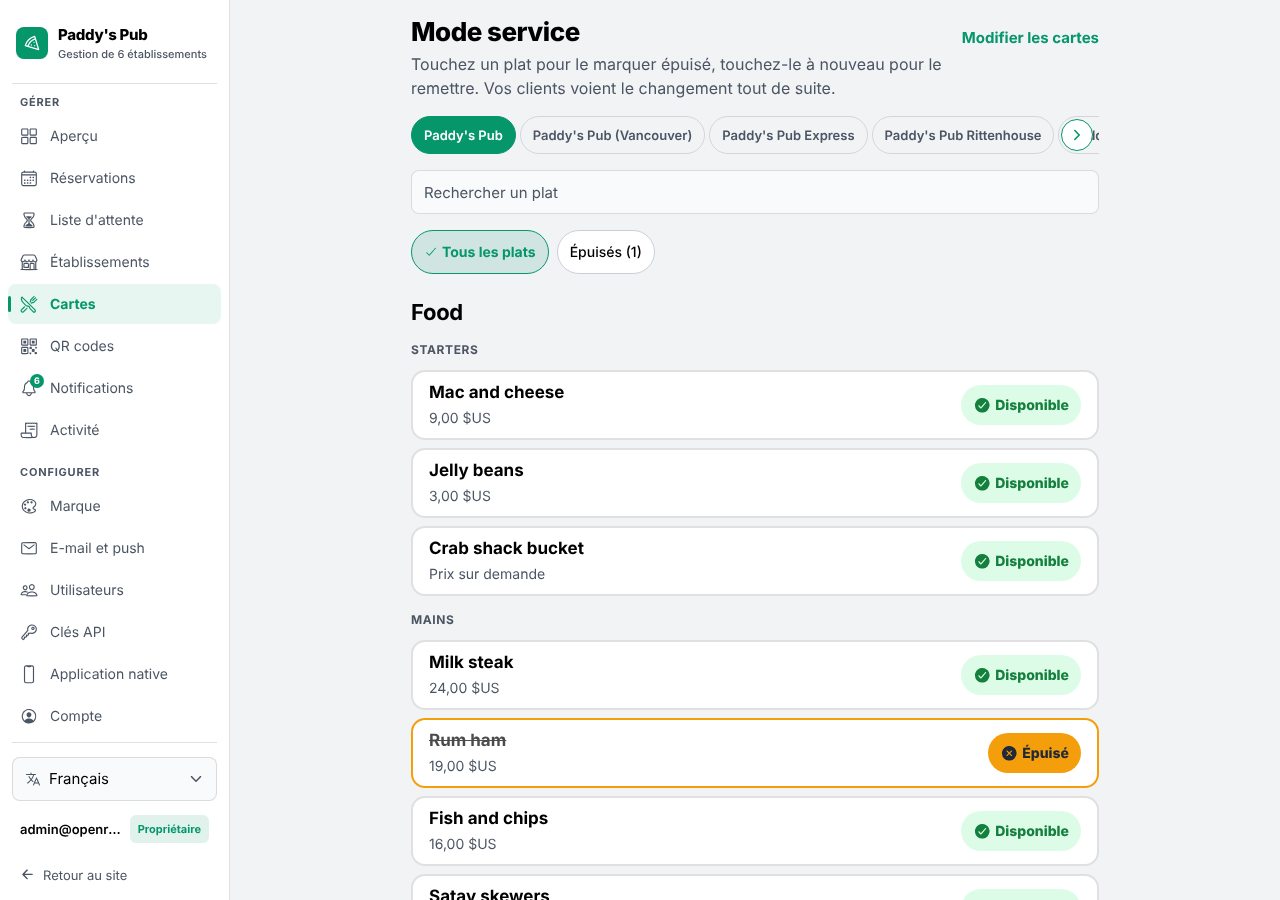
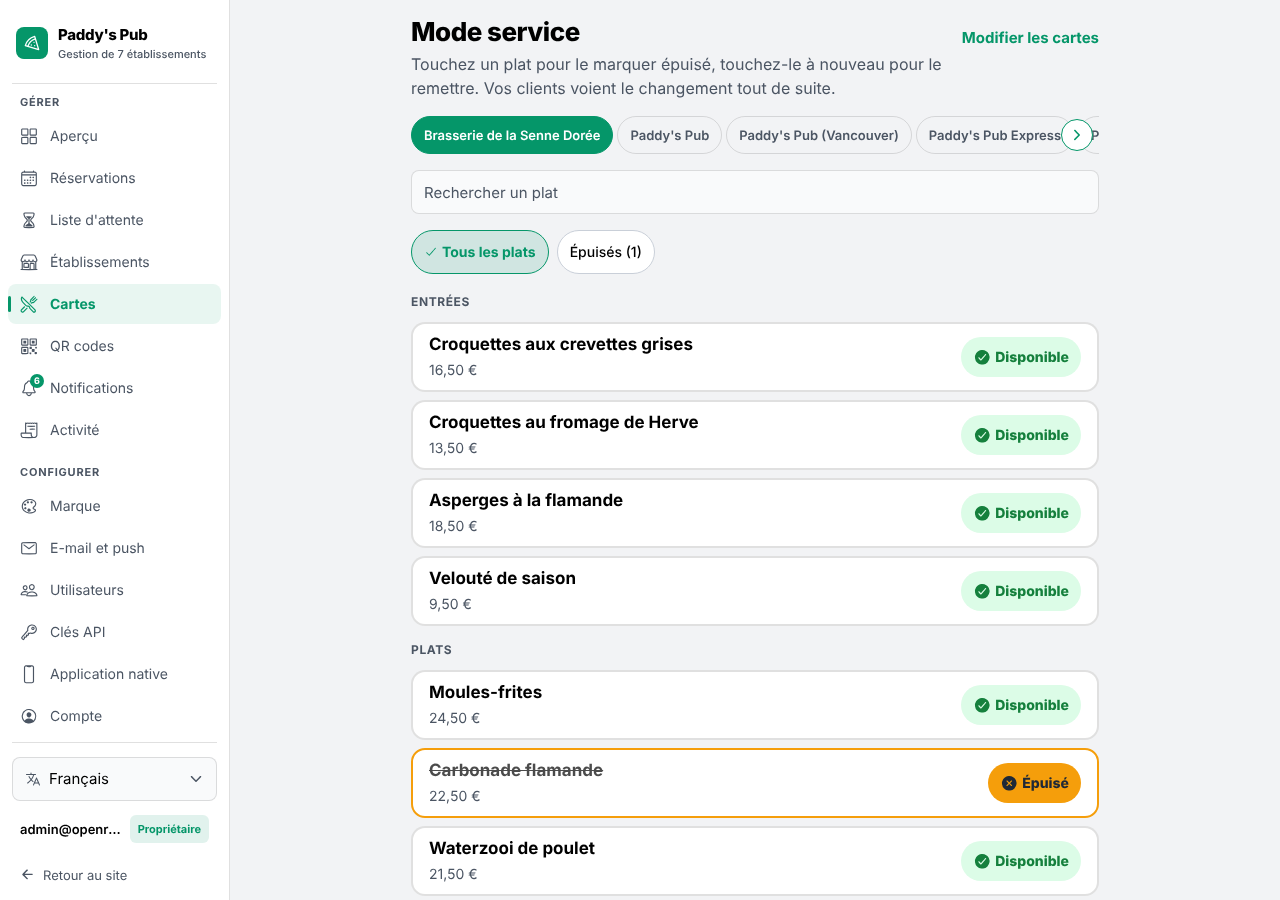
feat(menu): Belgian French demo, euro default per location, new captures
- A new menu starts in the currency of the location's first menu, and in euros
  when it has none (newMenuCurrency); the currency stays a per-menu field. A
  test pins that French euros read like Belgian ones (9,00 €).
- demo_data.py: a fictional Belgian brasserie ("Brasserie de la Senne Dorée"),
  in French and euros, with a carte (Entrées, Plats, Desserts, Boissons), a
  sold-out dish, a "price on request" dish, an unpublished draft and Belgian
  guests for its bookings. Appended last, so no existing location id moves; the
  Paddy's Pub dataset is unchanged.
- Captures regenerated on that dataset; the capture script targets the
  brasserie by name.

Claude-Session: https://claude.ai/code/session_01JWfiUJzcGTb5ZXsWKKtohj

Changed region(s): [[0.3125, 0.3111, 0.875, 1.0], [0.3438, 0.1244, 0.8438, 0.1867], [0.0938, 0.0311, 0.1562, 0.0622]]

diff --git a/openresto-frontend/components/admin/menus/MenusScreen.tsx b/openresto-frontend/components/admin/menus/MenusScreen.tsx
@@ -18,11 +18,10 @@ import {
 } from "@/api/menus";
 import { useAdminLocation } from "@/hooks/use-admin-location";
 import { useAppTheme } from "@/hooks/use-app-theme";
-import { DEFAULT_CURRENCY } from "@/constants/menu";
 import { openExternal } from "@/utils/openExternal";
 import { menuUrl } from "@/utils/qrCode";
 import { moveId } from "@/utils/reorder";
-import { reorderMenus } from "@/utils/menuState";
+import { newMenuCurrency, reorderMenus } from "@/utils/menuState";
 import { styles } from "./MenusScreen.styles";
 
 const SERVICE_PATH = "/admin/menus/service" as Href;
@@ -75,11 +74,11 @@ export function MenusScreen() {
     openExternal(menuUrl(window.location.origin, "r", result.value.restaurantToken));
   };
 
-  const addMenu = async (id: number, name: string): Promise<string | null> => {
+  const addMenu = async (id: number, menus: MenuDto[], name: string): Promise<string | null> => {
     const result = await adminCreateMenu(id, {
       name,
       description: null,
-      currency: DEFAULT_CURRENCY,
+      currency: newMenuCurrency(menus),
     });
     if (!result.ok) return result.message;
     setJustAdded(result.value.id);
@@ -179,7 +178,7 @@ export function MenusScreen() {
               <AddEntryForm
                 label={t("admin.menus.addMenu")}
                 placeholder={t("admin.menus.addMenuPlaceholder")}
-                onAdd={(name) => addMenu(selected.id, name)}
+                onAdd={(name) => addMenu(selected.id, load.menus, name)}
                 testID="add-menu"
               />
             </View>

diff --git a/openresto-frontend/tests/components/admin/menus/MenusScreen.test.tsx b/openresto-frontend/tests/components/admin/menus/MenusScreen.test.tsx
@@ -239,6 +239,28 @@ describe("MenusScreen creating a menu", () => {
     expect(screen.queryByTestId("add-menu-name")).toBeNull();
   });
 
+  it("starts a new menu in the currency the location's first menu already uses", async () => {
+    await renderScreen(places(3), [menu({ id: 1, name: "Food", currency: "USD" })]);
+    createMenu.mockResolvedValue(ok(menu({ id: 20, name: "Drinks", currency: "USD" })));
+    await submit("Drinks");
+    expect(createMenu).toHaveBeenCalledWith(3, {
+      name: "Drinks",
+      description: null,
+      currency: "USD",
+    });
+  });
+
+  it("starts the first menu of a location with none in euros", async () => {
+    await renderScreen(places(3), []);
+    createMenu.mockResolvedValue(ok(menu({ id: 20, name: "Carte" })));
+    await submit("Carte");
+    expect(createMenu).toHaveBeenCalledWith(3, {
+      name: "Carte",
+      description: null,
+      currency: "EUR",
+    });
+  });
+
   it("shows the server's message, keeps the form and adds no menu when it is refused", async () => {
     await renderScreen(places(3), []);
     createMenu.mockResolvedValue(refused("Menu name cannot be empty."));

diff --git a/openresto-frontend/utils/menuState.ts b/openresto-frontend/utils/menuState.ts
@@ -1,4 +1,5 @@
 import type { MenuCategoryDto, MenuDto, MenuItemDto } from "@/api/menus";
+import { DEFAULT_CURRENCY } from "@/constants/menu";
 
 /**
  * The admin keeps the restaurant's menus as one tree and patches it as each call lands, rather
@@ -95,3 +96,14 @@ export const reorderItems = (
 
 export const countItems = (menu: MenuDto): number =>
   menu.categories.reduce((total, category) => total + category.items.length, 0);
+
+/**
+ * The currency a new menu starts in: the one the location's first menu already uses, so a
+ * location that prices in another currency is not asked to change every menu it adds, and euros
+ * when it has none. The currency itself is a per-menu field, set in the editor.
+ *
+ * @see [menuState.test.ts](../tests/utils/menuState.test.ts) — pins that the first menu's
+ * currency is inherited and that an empty location starts in euros.
+ */
+export const newMenuCurrency = (menus: readonly MenuDto[]): string =>
+  menus[0]?.currency ?? DEFAULT_CURRENCY;

diff --git a/openresto-frontend/tests/utils/menuPrice.test.ts b/openresto-frontend/tests/utils/menuPrice.test.ts
@@ -24,6 +24,14 @@ describe("formatPrice", () => {
     expect(formatPrice(1250, "EUR")).toBe("€12.50");
   });
 
+  it("prints euros the Belgian way in French: 9,00 € and 1 234,50 €", () => {
+    setActiveLocale("fr");
+    const belgian = new Intl.NumberFormat("fr-BE", { style: "currency", currency: "EUR" });
+    expect(formatPrice(900, "EUR")).toBe(belgian.format(9));
+    expect(formatPrice(900, "EUR").replace(/\s/g, " ")).toBe("9,00 €");
+    expect(formatPrice(123450, "EUR")).toBe(belgian.format(1234.5));
+  });
+
   it("honours a currency with no decimals", () => {
     setActiveLocale("en");
     expect(formatPrice(1250, "JPY")).toBe("¥1,250");

diff --git a/openresto-frontend/tests/utils/menuState.test.ts b/openresto-frontend/tests/utils/menuState.test.ts
@@ -3,6 +3,7 @@ import {
   addCategory,
   addItem,
   countItems,
+  newMenuCurrency,
   removeCategory,
   removeItem,
   removeMenu,
@@ -149,5 +150,15 @@ describe("countItems", () => {
   it("adds the dishes of every category", () => {
     expect(countItems(tree()[0])).toBe(3);
     expect(countItems(menu(3, []))).toBe(0);
+  });
+});
+
+describe("newMenuCurrency", () => {
+  it("inherits the currency of the location's first menu", () => {
+    expect(newMenuCurrency([{ ...menu(1, []), currency: "CHF" }, menu(2, [])])).toBe("CHF");
+  });
+
+  it("starts a location with no menu in euros", () => {
+    expect(newMenuCurrency([])).toBe("EUR");
   });
 });

diff --git a/scripts/demo_data.py b/scripts/demo_data.py
@@ -93,7 +93,7 @@ BRAND = {
 # Sections/tables/groups are nested so ids are assigned by build_dataset()
 # rather than hand-numbered. `group.tables` refers to member tables by name.
 #
-# Between them these seven locations cover: per-day opening hours (including a
+# Between them these eight locations (the last a French-language Belgian brasserie) cover: per-day opening hours (including a
 # past-midnight wrap), both booking-reference formats, all three contact
 # fallback states, every slot interval (15/30/60), walk-in-only both globally
 # and per-day, a live booking pause, an archived location, the table-oversize
@@ -299,6 +299,32 @@ LOCATIONS = [
         ],
         "groups": [],
     },
+    {
+        # A fictional Belgian brasserie, in French and in euros: the demo for francophone
+        # Belgian restaurateurs, and the location whose native menu (see MENUS) shows a
+        # sold-out dish, a "price on request" dish and a draft. Appended last on purpose, so
+        # every other location keeps its id. Its bookings use BELGIAN_GUESTS.
+        "name": "Brasserie de la Senne Dorée",
+        "address": "Rue des Fabriques 25, 1000 Bruxelles",
+        "timezone": "Europe/Brussels",
+        "open_days": "2,3,4,5,6,7",
+        "open_time": "11:30",
+        "close_time": "22:30",
+        "duration": 90,
+        "slot_interval": 30,
+        "ref_format": 0,
+        "tags": "brasserie,cuisine belge,bières belges",
+        "description": "Cuisine belge de saison, bières d'abbaye et service en terrasse aux beaux jours. Fermé le lundi.",
+        "menu_url": None,
+        "phone": "+32 2 555 01 23",
+        "email": "bonjour@senne-doree.example",
+        "guests": "belgian",
+        "sections": [
+            {"name": "Salle", "tables": [("1", 2), ("2", 2), ("3", 4), ("4", 4), ("5", 6), ("6", 8)]},
+            {"name": "Terrasse", "tables": [("7", 4), ("8", 4), ("9", 2)]},
+        ],
+        "groups": [],
+    },
 ]
 
 # ─── Home page content ───────────────────────────────────────────────────────
@@ -447,6 +473,70 @@ MENUS = {
             ],
         },
     ],
+    # Euros and French, the way a Belgian brasserie would write it. One published carte with
+    # the four courses a guest expects, a sold-out dish (the carbonade), a "price on request"
+    # dish (the fish of the day, which depends on the market) and an unpublished draft.
+    # Allergens are declared the way a kitchen would: the sauce and the breading count.
+    "Brasserie de la Senne Dorée": [
+        {
+            "name": "La carte",
+            "description": "Cuisine belge de saison. Prix en euros, service compris.",
+            "currency": "EUR",
+            "published": True,
+            "categories": [
+                {
+                    "name": "Entrées",
+                    "items": [
+                        ("Croquettes aux crevettes grises", "Deux pièces, persil frit et citron. Crevettes grises de la mer du Nord.", 1650, "Available", ["Crustaceans", "Gluten", "Eggs", "Milk"], []),
+                        ("Croquettes au fromage de Herve", "Fromage de Herve AOP, confiture de poires.", 1350, "Available", ["Gluten", "Eggs", "Milk"], ["Vegetarian"]),
+                        ("Asperges à la flamande", "Asperges blanches, œuf mimosa et beurre noisette.", 1850, "Available", ["Eggs", "Milk"], ["Vegetarian", "GlutenFree"]),
+                        ("Velouté de saison", "Légumes du marché, crème fraîche.", 950, "Available", ["Milk", "Celery"], ["Vegetarian", "GlutenFree"]),
+                    ],
+                },
+                {
+                    "name": "Plats",
+                    "items": [
+                        ("Moules-frites", "Moules de Zélande à la marinière, frites maison.", 2450, "Available", ["Molluscs", "Celery", "Sulphites", "Milk"], []),
+                        ("Carbonade flamande", "Bœuf mijoté à la bière brune et au pain d'épices, frites maison.", 2250, "SoldOut", ["Gluten", "Mustard", "Celery", "Sulphites"], []),
+                        ("Waterzooi de poulet", "Poulet fermier, légumes, crème et jaune d'œuf, pommes vapeur.", 2150, "Available", ["Milk", "Eggs", "Celery"], ["GlutenFree"]),
+                        ("Américain préparé", "Tartare de bœuf à la belge, câpres et oignons, frites maison.", 2250, "Available", ["Eggs", "Mustard", "Celery"], []),
+                        ("Stoemp aux carottes et saucisse", "Purée de pommes de terre et de carottes, saucisse grillée.", 1950, "Available", ["Milk", "Mustard", "Celery"], []),
+                        ("Légumes rôtis et houmous", "Légumes de saison rôtis, houmous, graines.", 1750, "Available", ["Sesame"], ["Vegan", "GlutenFree"]),
+                        ("Poisson du jour", "Selon la criée de Zeebruges. Demandez à la salle.", None, "Available", ["Fish", "Milk"], ["GlutenFree"]),
+                    ],
+                },
+                {
+                    "name": "Desserts",
+                    "items": [
+                        ("Dame blanche", "Glace vanille, chocolat chaud belge, chantilly.", 950, "Available", ["Milk"], ["Vegetarian", "GlutenFree"]),
+                        ("Gaufre de Bruxelles", "Sucre glace, fruits rouges ou chantilly.", 850, "Available", ["Gluten", "Eggs", "Milk"], ["Vegetarian"]),
+                        ("Tarte au sucre", "Tarte à la cassonade, comme à la maison.", 700, "Available", ["Gluten", "Eggs", "Milk"], ["Vegetarian"]),
+                        ("Café liégeois", "Café glacé, glace au café, chantilly.", 800, "Available", ["Milk"], ["Vegetarian", "GlutenFree"]),
+                    ],
+                },
+                {
+                    "name": "Boissons",
+                    "items": [
+                        ("Bière blonde, pression 25 cl", "Brassée en Belgique.", 360, "Available", ["Gluten"], ["Vegan"]),
+                        ("Bière d'abbaye brune, 33 cl", "Ronde et chaude, 7 %.", 520, "Available", ["Gluten"], ["Vegan"]),
+                        ("Kriek, 25 cl", "Bière aux cerises.", 480, "Available", ["Gluten", "Sulphites"], ["Vegan"]),
+                        ("Eau pétillante, 50 cl", None, 350, "Available", [], ["Vegan", "GlutenFree"]),
+                        ("Jus de pomme de Wallonie", "Pressé en Hesbaye.", 350, "Available", [], ["Vegan", "GlutenFree"]),
+                        ("Café", None, 270, "Available", [], ["Vegan", "GlutenFree"]),
+                    ],
+                },
+            ],
+        },
+        {
+            "name": "Suggestions d'hiver",
+            "description": "Brouillon : non publié, les clients ne le voient pas.",
+            "currency": "EUR",
+            "published": False,
+            "categories": [
+                {"name": "Plats d'hiver", "items": [("Boulets sauce lapin", "Boulets de viande, sauce lapin aux pruneaux, frites.", 2250, "Available", ["Gluten", "Eggs", "Mustard", "Celery", "Sulphites"], [])]},
+            ],
+        },
+    ],
 }
 
 SOCIAL_LINKS = [
@@ -484,6 +574,29 @@ GUESTS = [
     ),
     ("Luther McDonald", None, None),
 ]
+
+# The guests of the Belgian brasserie (LOCATIONS' "guests": "belgian"): made-up names and
+# `.example` addresses, in the same mix as GUESTS (no email, no request, one note).
+BELGIAN_GUESTS = [
+    ("Famille Dupont", "famille.dupont@demo.example", None),
+    ("Sophie Lambert", "sophie.lambert@demo.example", "Table près de la fenêtre si possible"),
+    ("Marc Peeters", "marc.peeters@demo.example", None),
+    ("Isabelle Claes", None, "Réservé par téléphone"),
+    ("Thomas Janssens", "thomas.janssens@demo.example", "Une chaise haute, s'il vous plaît"),
+    ("Camille Martin", "camille.martin@demo.example", None),
+    ("Nicolas Wouters", "nicolas.wouters@demo.example", "Allergique aux fruits à coque"),
+    ("Élise Maes", "elise.maes@demo.example", None),
+    ("Olivier Dubois", None, None),
+    ("Laura Hermans", "laura.hermans@demo.example", "Anniversaire : une bougie sur le dessert, merci"),
+]
+
+GUEST_POOLS = {"belgian": BELGIAN_GUESTS}
+
+
+def guest_pool(spec):
+    """The guests a location's generated bookings draw from; the default pool unless it names one."""
+    return GUEST_POOLS[spec["guests"]] if spec.get("guests") else GUESTS
+
 
 REF_ADJECTIVES = [
     "crispy", "golden", "smoky", "rustic", "zesty", "tender", "glazed", "roasted",
@@ -1192,7 +1305,8 @@ def emit_bookings(ds, now_utc, days_back, days_forward, occupancy, rng):
                 covers_by_slot[minutes] = covers_by_slot.get(minutes, 0) + seats
                 placed += 1
 
-                name, email, special = GUESTS[guest_idx % len(GUESTS)]
+                pool = guest_pool(spec)
+                name, email, special = pool[guest_idx % len(pool)]
                 guest_idx += 1
                 if walk_in:
                     special = "Walk-in, recorded at the door"

diff --git a/CLAUDE.md b/CLAUDE.md
@@ -232,7 +232,7 @@ OpenRestoApi.Infrastructure/
 - **EF migrations with running dev server**: exe is locked, so use `dotnet ef migrations add <Name> --project ../OpenRestoApi.Infrastructure --no-build` from `OpenRestoApi/` (the migrations live in Infrastructure; the web project is the startup project). If obj/ DLLs are stale the generated `Up()` will be empty — write it manually.
 - **`dotnet ef migrations add` Roslyn version pin**: `Microsoft.EntityFrameworkCore.Design`'s own dependency on `Microsoft.CodeAnalysis.CSharp.Workspaces`/`Microsoft.CodeAnalysis.Workspaces.MSBuild` resolves to an older version than `Microsoft.CodeAnalysis.CSharp`/`.Common` get bumped to elsewhere in the graph (via `csulpizi.CustomAccessibility`'s own floor requirement) — a split-version Roslyn install that crashes migration scaffolding at design-time with `TypeLoadException: ReduceExtensionMember ... does not have an implementation` (build/test/runtime never hit this path, so it stays silent otherwise). `OpenRestoApi.csproj` pins `Microsoft.CodeAnalysis.CSharp.Workspaces`/`Workspaces.MSBuild` to match the higher-resolved version to unify the chain; these are `PrivateAssets="all"` and confirmed (via `dotnet publish` diff) not to ship in the runtime output. If `dotnet ef migrations add` starts crashing again after an EF Core upgrade, re-check these pins against whatever `Microsoft.CodeAnalysis.CSharp`/`.Common` actually resolve to (`dotnet restore` + inspect `obj/project.assets.json`) and bump them to match.
 - **SCRIPTS** - `scripts/` contains dev/ops scripts (seeding, demo reset, admin recovery). They are not part of the production image. Make sure you update them if the DB is changing in a way that would break them (e.g. new required fields).
-- **`scripts/demo_data.py` is the single source of truth for seed/demo data.** It declares the dataset and emits SQL (`config` / `bookings` / `media` / `accounts` / `all`); `seed-local.sh` and `purge-bookings.sh` (the demo VPS's 2-hourly reset) are thin wrappers. Add new data here, never inline in a shell script, and when adding a column add it to the dataset too or the demo silently stops exercising it. The dataset deliberately covers every feature flag the product has (per-day hours incl. a past-midnight wrap, both booking-ref formats, all contact-fallback states, 15/30/60 slot intervals, walk-in-only global and per-day, a live walk-in waitlist with parties already seated, a live booking pause, an archived location, the table-oversize cap, named/unnamed combinable groups), each location annotated with the feature it surfaces. `accounts` covers an Owner (no display name) and a Manager (one), so both roles and both display-name branches are clickable. It is **not** part of `all`: it needs an admin password from `ADMIN_EMAIL`/`ADMIN_PASSWORD` or `--settings-file` (never argv, where `ps` would expose it), and it wipes both `AdminCredentials` and `AdminApiKeys` first so neither a visitor-invited account nor a visitor-minted API key survives the reset. The key wipe has to be explicit: the generator runs under `PRAGMA foreign_keys=OFF`, so the `AdminApiKeys` cascade never fires, and because the wipe reseeds credentials from Id 1 an orphaned key's `UserId` lands back on the new Owner and keeps authenticating for its full year. Each section emits its own `BEGIN`/`COMMIT`, so apply `accounts` as a separate batch. Bookings are generated against the rules the server enforces (opening hours, capacity, oversize cap, the table/group mutual exclusion in `IsUnitBookedOnDateAsync`), so seeded rows never conflict and always carry an `EndTime`. **Two upcoming bookings deliberately break that rule**, one on a day the flagship no longer opens and one before it now opens: the schedule-conflict panel and its dashboard count only exist for a schedule narrowed after the bookings were taken, so without them the feature is invisible on the demo. A feature whose UI is driven by data state, rather than by a column, needs the state seeded or the demo silently stops exercising it.
+- **`scripts/demo_data.py` is the single source of truth for seed/demo data.** It declares the dataset and emits SQL (`config` / `bookings` / `media` / `accounts` / `all`); `seed-local.sh` and `purge-bookings.sh` (the demo VPS's 2-hourly reset) are thin wrappers. Add new data here, never inline in a shell script, and when adding a column add it to the dataset too or the demo silently stops exercising it. The dataset deliberately covers every feature flag the product has (per-day hours incl. a past-midnight wrap, both booking-ref formats, all contact-fallback states, 15/30/60 slot intervals, walk-in-only global and per-day, a live walk-in waitlist with parties already seated, a live booking pause, an archived location, the table-oversize cap, named/unnamed combinable groups, and the native menu module — the flagship's English one and a French-language Belgian brasserie, "Brasserie de la Senne Dorée", in euros with a sold-out dish, a "price on request" dish and an unpublished draft, appended last so no other location's id moves and drawing its bookings from `BELGIAN_GUESTS`), each location annotated with the feature it surfaces. `accounts` covers an Owner (no display name) and a Manager (one), so both roles and both display-name branches are clickable. It is **not** part of `all`: it needs an admin password from `ADMIN_EMAIL`/`ADMIN_PASSWORD` or `--settings-file` (never argv, where `ps` would expose it), and it wipes both `AdminCredentials` and `AdminApiKeys` first so neither a visitor-invited account nor a visitor-minted API key survives the reset. The key wipe has to be explicit: the generator runs under `PRAGMA foreign_keys=OFF`, so the `AdminApiKeys` cascade never fires, and because the wipe reseeds credentials from Id 1 an orphaned key's `UserId` lands back on the new Owner and keeps authenticating for its full year. Each section emits its own `BEGIN`/`COMMIT`, so apply `accounts` as a separate batch. Bookings are generated against the rules the server enforces (opening hours, capacity, oversize cap, the table/group mutual exclusion in `IsUnitBookedOnDateAsync`), so seeded rows never conflict and always carry an `EndTime`. **Two upcoming bookings deliberately break that rule**, one on a day the flagship no longer opens and one before it now opens: the schedule-conflict panel and its dashboard count only exist for a schedule narrowed after the bookings were taken, so without them the feature is invisible on the demo. A feature whose UI is driven by data state, rather than by a column, needs the state seeded or the demo silently stops exercising it.
 - **Demo artwork is derived from disk, never hardcoded.** `MediaService` writes uploads into deterministic slots (`hero.<ext>`, `location-<id>.<ext>`, `menu-<id>.pdf`), so `demo_data.py config` leaves `ImageUrl`/`HeaderImageUrl` NULL and the `media` section (`--media-dir DIR`) emits UPDATEs for the files that actually exist. That is why an uploaded image survives a reseed, and why a hardcoded path can never point at a missing file. The media step only ever sets a URL, never nulls one, so it composes on top of `config`; a served `menu-<id>.pdf` wins over an external `menu_url` in the dataset. On the VPS, `data/media-snapshot/` is the curated source of truth — drop correctly-named files in there (or upload via the admin UI and re-snapshot) and they appear on the next reset. Anything not in the snapshot is wiped every run on purpose: demo admin credentials are public, so visitor uploads must not persist.
 - **Admin push subscriptions are per browser, never per location.** `AdminPushSubscription` is keyed by `Endpoint` alone (unique index), `POST /api/admin/push/subscribe` takes no `restaurantId`, and `BookingNotificationService.SendPushAsync` fans out over `GetAllAsync()` rather than a restaurant's rows. This is not an accident of the schema: an admin account is not scoped to a restaurant, so a subscription registered while looking at one location is owed every other location's bookings too. Scoping it is what made push look "inconsistent" — the two subscriptions on the 7-location demo were both registered against restaurant 1 while bookings landed on 2, 3, 6 and 7, and `[Push] Sending ... to 0 subscription(s)` was the whole of the symptom. The other half of that silence is the per-subscription `catch (Exception)` in the send loop: `WebPush` throws outside `WebPushException` (`InvalidEncryptionDetailsException` for key material it cannot encrypt with), and an escape there aborts the `foreach`, skips every remaining subscriber and leaves `PushSentAt`/`PushError` unwritten. **A per-subscription failure must never take down the batch** — only 410/404 is treated as stale and deletes the row.
 - **Migrations run against data, not an empty schema.** SQLite accepts `ALTER TABLE ADD COLUMN` with a non-constant default (`CURRENT_TIMESTAMP`, `CURRENT_DATE`, any parenthesised expression) only while the table is empty; with a single row present it fails with `Cannot add a column with non-constant default`. A fresh install's tables are empty at migration time and every real install's are not, so this shape passes locally, passes CI, and then breaks every upgrade. `AddMultiUserAccounts` shipped it and broke the VPS deploy. To add a column with a non-constant default: add it **nullable**, backfill with `migrationBuilder.Sql`, then rebuild the table (SQLite has no `ALTER COLUMN`) so both paths land on the same definition — see that migration for the pattern. `migration-check.yml` now seeds a row into every table (`scripts/fill-schema-fixture.py`) before applying the new migrations, so this class fails in CI instead of in production.

diff --git a/docs-site/src/content/docs/guides/features.md b/docs-site/src/content/docs/guides/features.md
@@ -144,7 +144,8 @@ built for a phone, so it opens below the admin's usual 600px width.
 
 - **Prices** are whole numbers in the currency's smallest unit (`priceMinor`: 1250 is €12.50).
   Leave the price empty for "price on request"; 0 means free. Each menu has one ISO 4217
-  currency (`EUR` by default).
+  currency (`EUR` by default, set per menu in the editor). A new menu in the admin starts in
+  the currency of the location's first menu. In French, euros read `9,00 €`.
 - **Allergens** are the 14 the EU requires a menu to declare (`Gluten`, `Crustaceans`, `Eggs`,
   `Fish`, `Peanuts`, `Soybeans`, `Milk`, `Nuts`, `Celery`, `Mustard`, `Sesame`, `Sulphites`,
   `Lupin`, `Molluscs`). Dietary tags are `Vegetarian`, `Vegan` and `GlutenFree`.
